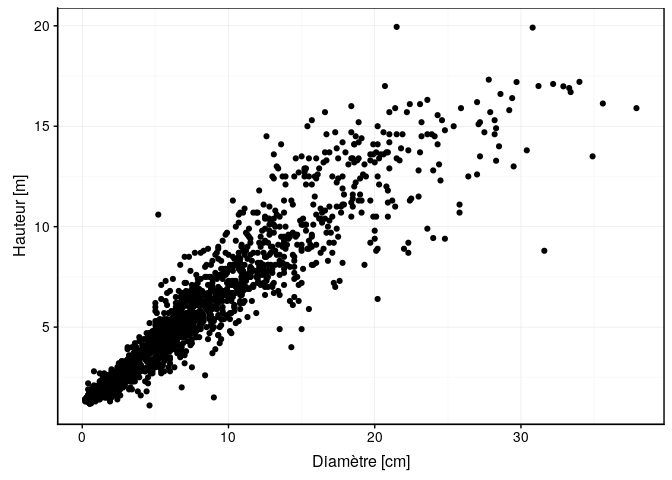
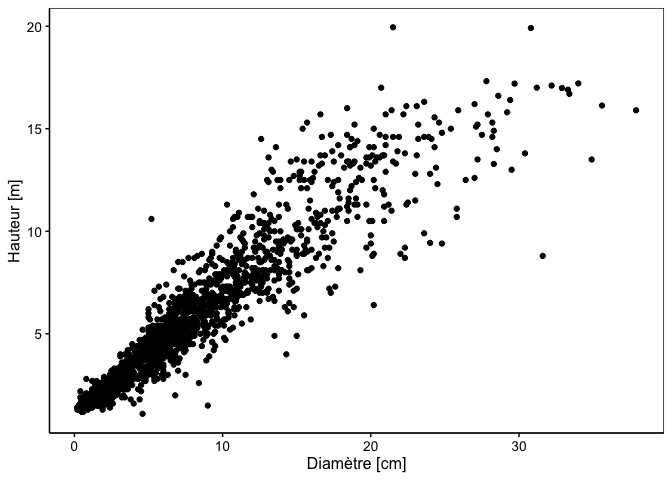
Relecture

diff --git a/README.md b/README.md
@@ -1,33 +1,30 @@
-Croissance de **Abies balsamea** (L.) Mill., 1768 au mont Moosilauke
+Croissance du sapin *Abies balsamea* (L.) Mill., 1768 au mont Moosilauke
 ================
 
 <!--- DO NOT EDIT README.MD. EDIT ONLY README.RMD ----->
 
 ## Contexte
 
-Wood et son équipe (2015) ont étudié la croissance de **A. balsamea**.
+Wood et son équipe (2015) ont étudié la croissance de *Abies balsamea*.
 
 **Pour en apprendre d’avantages, utilisez la référence présente dans la
 bibliographie.**
 
-Ces chercheurs ont décidé de mettre à dispositon les données relatives à
-cette recherche. Ils ont utilisé la plateforme
-[DRYAD](https://datadryad.org). Les données ont un D.O.I. et sont
-disponible via l’URL suivant <https://doi.org/10.5061/dryad.r3645>.
+Ces chercheurs ont décidé de mettre à disposition les données relatives
+à cette recherche. Ils ont utilisé la plateforme
+[DRYAD](https://datadryad.org). Les données ont un DOI et sont
+disponibles via l’URL suivante <https://doi.org/10.5061/dryad.r3645>.
 
-Les données brutes se trouve `data/raw`. Ces données sont les données
-brutes proposées par DRYAD. Les données de travail conseillés se nomme
+Les données brutes teklles que disponible à partir de DRYAD se trouvent
+dans `data/raw`. Les données de travail remaniées sont dans le fichier
 `data/growth.rds`. Ce jeu de données est obtenu avec le script R
 `dataset.R`
 
 ## Objectifs
 
-Utilisez les outils de modélisation afin de modéliser la croissance de
-**A. balsamea**. Intéressez à la taille de l’arbre en fonction de son
-diamètre.
-
-La figure ci-dessus présente la hauteur des arbres en fonction du
-diamètre.
+effectuez une modélisation de la croissance de *A. balsamea*.
+Intéressez-vous à la taille de l’arbre en fonction de son diamètre
+(voir figure ci-dessous).
 
 ``` r
 read("data/growth.rds") %>.%
@@ -36,31 +33,30 @@ read("data/growth.rds") %>.%
   labs(x = "Diamètre [cm]", y = "Hauteur [m]")
 ```
 
-![Variation de la hauteur en fonction du dimètre de A. balsemea
-(n=1958).](README_files/figure-gfm/unnamed-chunk-1-1.png)
+![Variation de la hauteur en fonction du diamètre de A. balsemea (n =
+1958).](README_files/figure-gfm/unnamed-chunk-1-1.png)
 
 Utilisez les outils du module 1 à 4 du cours en ligne
 <http://biodatascience-course.sciviews.org/sdd-umons2/>
 
 ## Consignes
 
-Proposez un projet portable dont l’ensemble des fichiers sont
+Proposez un projet portable avec tous ses fichiers qui doivent être
 exécutables. L’ensemble de ces fichiers doit être organisé. Soyez
 attentif à donner des noms corrects à vos fichiers.
 
-Ce projet doit contenir au minimum 2 fichiers dont un carnet de notes
+Ce projet doit contenir au minimum deux fichiers dont un carnet de notes
 (**growth\_notes.Rmd**) et un rapport scientifique
 (**growth\_reports.Rmd**).
 
 ### Carnet de notes
 
-Le carnet de notes doit débuter par une mise en contexte du carnet de
-notes. Chaque carnet de notes doit débuter par une mise en contexte qui
-explique l’objectif de ce dernier. Le carnet de notes contient
-l’ensemble des réflexions sur une thématique précise.
+Le carnet de notes doit débuter par une mise en contexte qui explique
+l’objectif de ce dernier. Le carnet de notes contient l’ensemble des
+réflexions sur une thématique précise.
 
 Ce carnet de notes doit comprendre une section pour chaque module
-utilisées du cours.
+utilisé du cours.
 
 ### Rapport scientifique
 
@@ -77,19 +73,20 @@ d’intérêt et le contexte de l’expérience.
 Le rapport doit comprendre un but court qui résume la question de
 recherche de ce rapport scientifique.
 
-Le rapport doit comprendre un matériel et méthode complet. Un M\&M
-complet comprend une explication sur les données. Il doit également
-comprendre une description des techniques statistiques employées dans ce
-rapport. Enfin, il doit comprendre une description des outils et des
-versions de ces derniers.
+Le rapport doit comprendre un matériel et méthode complet y compris une
+explication sur les données. Il doit également comprendre une
+description des techniques statistiques employées dans ce rapport.
+Enfin, il doit comprendre une description des outils et des versions de
+ces derniers.
 
 La section résultat de votre rapport scientifique doit comprendre des
 graphiques, des tableaux et un/des modèle(s) sélectionné(s)
 judicieusement. Ils doivent être décrits dans la section résultat. Les
 résultats doivent être uniquement décrits.
 
-La section discussion doit comprendre une discussion de vos résultats.
-Ne confondez pas la description et la discussion de vos analyses.
+La section discussion doit élaborer des explications sur base de vos
+résultats. Ne confondez pas la description et la discussion de vos
+analyses.
 
 Utilisez la grille d’évaluation pour vous assurer que votre projet est
 complet.
